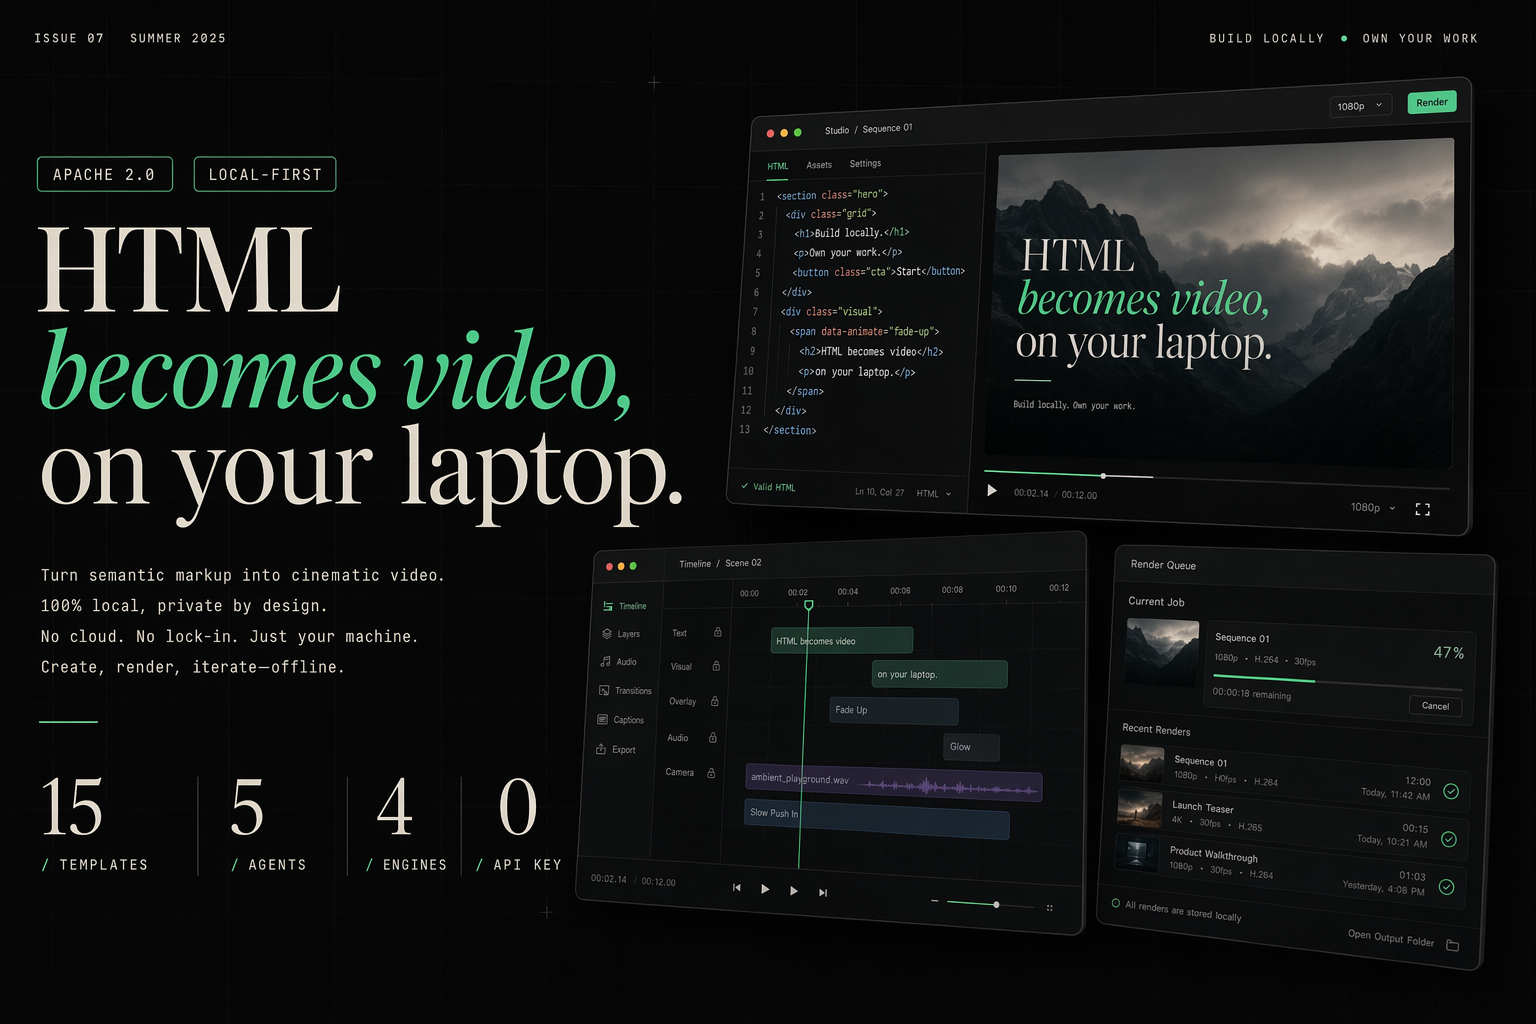
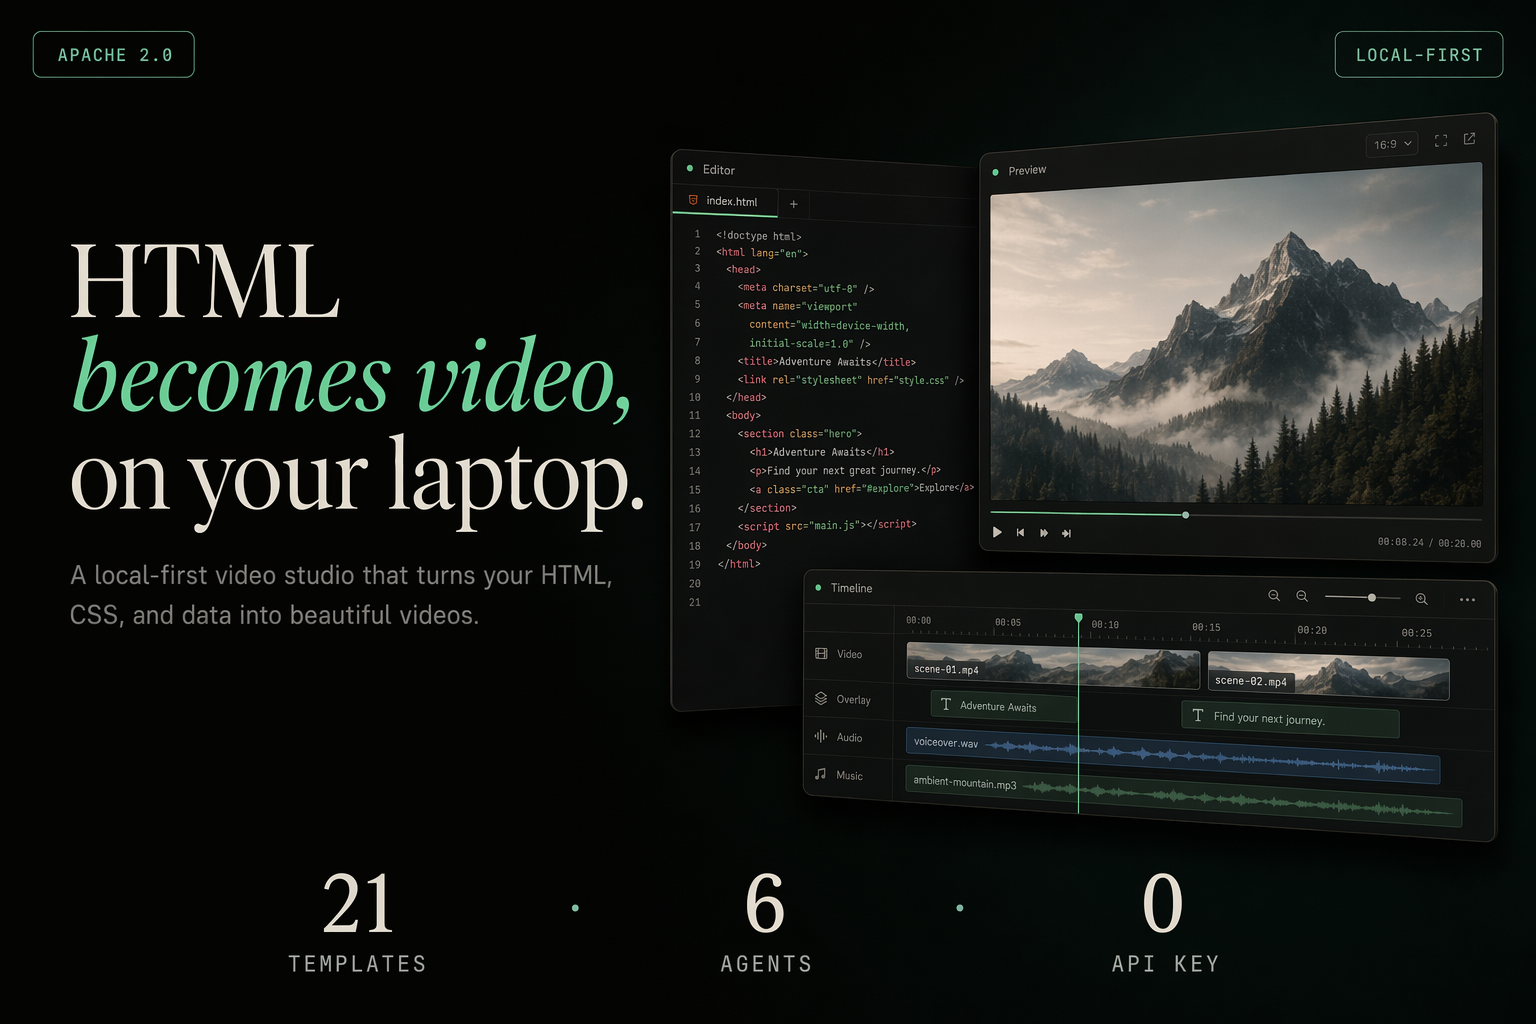
docs: refresh README to current state (real MP4 render, 6 agents, 21 templates) (#1)
The README had drifted from the codebase. Bring it back in sync and expand
the explanatory sections (EN + zh-CN kept in lockstep):

- Hyperframes engine now renders real MP4 (Playwright/Chromium + ffmpeg),
  not a stub — update status, "Why this exists" table, and roadmap.
- Agents 5 → 6: add Open Design (Vela) ACP backend (the recommended default).
- Templates 15 → 21 (manifest-backed templates the registry actually loads).
- New "How it works" section: end-to-end pipeline diagram.
- Expanded link→video, multi-engine vision, and a new Template gallery section
  (manifest + license-clean curation).
- Regenerated hero image with the corrected 21 / 6 stat row.

diff --git a/README.md b/README.md
@@ -4,12 +4,12 @@
   <img src="docs/assets/hero.png" alt="html-video — HTML becomes video, on your laptop" width="100%" />
 </p>
 
-> **HTML becomes video — on your laptop.** Bring your local coding agent (Claude Code · Cursor · Codex · Hermes · or the Anthropic API). Describe a video, or **paste an article link / GitHub repo**, and the agent turns it into a multi-frame, fully animated video — one agent loop, pluggable rendering engines, a curated template gallery, optional AI soundtrack. Apache-2.0, no per-render fees, no vendor lock-in.
+> **HTML becomes video — on your laptop.** Bring your local coding agent (Open Design · Claude Code · Cursor · Codex · Hermes · or the Anthropic API). Describe a video, or **paste an article link / GitHub repo**, and the agent turns it into a multi-frame, fully animated video — then renders it to a real MP4 right on your machine. One agent loop, pluggable rendering engines, a curated template gallery, optional AI soundtrack. Apache-2.0, no per-render fees, no vendor lock-in.
 
 <p align="center">
   <a href="LICENSE"><img alt="License" src="https://img.shields.io/badge/license-Apache%202.0-blue.svg?style=flat-square" /></a>
-  <a href="#supported-agents"><img alt="Agents" src="https://img.shields.io/badge/agents-5%20backends-111?style=flat-square" /></a>
-  <a href="#template-gallery"><img alt="Templates" src="https://img.shields.io/badge/templates-15-3ce6ac?style=flat-square" /></a>
+  <a href="#supported-agents"><img alt="Agents" src="https://img.shields.io/badge/agents-6%20backends-111?style=flat-square" /></a>
+  <a href="#showcase"><img alt="Templates" src="https://img.shields.io/badge/templates-21-3ce6ac?style=flat-square" /></a>
   <a href="#turn-a-link-into-a-video"><img alt="Sources" src="https://img.shields.io/badge/from-article%20%C2%B7%20repo%20%C2%B7%20prompt-9b59b6?style=flat-square" /></a>
   <a href="#soundtrack"><img alt="Soundtrack" src="https://img.shields.io/badge/soundtrack-AI%20music%20%2B%20narration-e67e22?style=flat-square" /></a>
   <a href="#quick-start"><img alt="Quickstart" src="https://img.shields.io/badge/quickstart-3%20commands-22a34a?style=flat-square" /></a>
@@ -57,7 +57,7 @@ Every template below is a real, animated single-file HTML video — these are li
 </tr>
 </table>
 
-…and 9 more, including multi-scene product promos, kinetic type, Swiss-grid data cards, decision-tree explainers, and warm-grain editorial. Browse them live in the studio gallery.
+…and 15 more, including multi-scene product promos, kinetic type, Swiss-grid and Vignelli data cards, decision-tree explainers, Takram-organic motion, and warm-grain editorial. Browse all 21 live in the studio gallery.
 
 ---
 
@@ -67,16 +67,18 @@ HTML→Video is a real category — but every engine is opinionated, and each wa
 
 | Engine | Paradigm | Tradeoff | In html-video |
 |---|---|---|---|
-| [Hyperframes](https://github.com/heygen-com/hyperframes) | HTML + CSS + GSAP, agent-skill driven | Single rendering paradigm | ✅ **Shipped** — the default engine; all templates render through it |
+| [Hyperframes](https://github.com/heygen-com/hyperframes) | HTML + CSS + GSAP, agent-skill driven | Single rendering paradigm | ✅ **Shipped** — the default engine; renders real MP4 via headless Chromium + ffmpeg |
 | [Remotion](https://www.remotion.dev/) | React components | Source-available, paid above 4 devs | 🗺️ Planned |
 | [Motion Canvas](https://github.com/motion-canvas/motion-canvas) · [Revideo](https://github.com/redotvideo/revideo) | TypeScript generators on canvas | Best for explainers, code-first | 🗺️ Planned |
 | [Manim](https://github.com/3b1b/manim) & friends | Math / 3D first | Niche | 🗺️ Researching |
 
 Picking the right engine per use case, learning each model, and stitching them into one workflow costs real engineering time. Most teams pick one and live with its limits.
 
-**html-video is the meta-layer that sits above all of them** — you talk to your agent, it picks the engine and template and renders the video. No new DSL to learn.
+**html-video is the meta-layer that sits above all of them.** You talk to your agent; it picks the engine, picks the template, fills in your content, and renders the video. The engine is an implementation detail behind a single adapter interface — one `render(input, ctx)` contract that any backend can satisfy. Add a new engine and every template, every agent, and the whole studio workflow get it for free. No new DSL to learn, no rewrite when you switch engines.
 
-> **Status:** the pluggable-engine architecture is in place, but today **Hyperframes is the only wired-up backend**. Remotion, Motion Canvas / Revideo, and Manim are on the roadmap — the adapter interface is designed for them, the adapters aren't built yet. The "In html-video" column above is the single source of truth for what's actually runnable.
+The same idea powers [Open Design](https://github.com/nexu-io/open-design) in the *design* space — an agent meta-layer over many tools. html-video is the *motion* counterpart from the same team.
+
+> **Status:** the pluggable-engine architecture is in place, and the **Hyperframes engine is fully wired up and renders real MP4** — headless Chromium records the animated HTML frame-by-frame and ffmpeg encodes it (libx264). Remotion, Motion Canvas / Revideo, and Manim are on the roadmap: the adapter interface is designed for them, but their adapters aren't built yet. The "In html-video" column above is the single source of truth for what's actually runnable today.
 
 ---
 
@@ -84,9 +86,10 @@ Picking the right engine per use case, learning each model, and stitching them i
 
 | | |
 |---|---|
-| **Coding agents (5)** | Claude Code · Cursor Agent · Codex CLI · Hermes · Anthropic Messages API — auto-detected on your `PATH`, switchable from the top bar. |
+| **Coding agents (6)** | Open Design (Vela) · Claude Code · Cursor Agent · Codex CLI · Hermes · Anthropic Messages API — auto-detected on your `PATH`, switchable from the top bar. |
+| **Real MP4 render** | Headless Chromium records the animated HTML and ffmpeg encodes it (libx264) — locally, no cloud render, no per-clip fee. |
 | **Article / repo → video** | Paste a URL or GitHub repo; the studio fetches it server-side (handles WeChat 公众号 articles) and builds the video from the real content. |
-| **15 templates** | Curated, license-clean patterns: data viz, product promos, social shorts, explainers, kinetic type, transitions — previewed live in the gallery. |
+| **21 templates** | Curated, license-clean patterns: data viz, product promos, social shorts, explainers, kinetic type, transitions — previewed live in the gallery. |
 | **Multi-frame storyboards** | A content-graph drives multi-scene videos; edit per-frame text inline, reorder, re-render. |
 | **AI soundtrack** | Optional background music + narration via MiniMax, mixed into the MP4 at export. |
 | **Studio + CLI** | A local browser studio *and* a scriptable `html-video` CLI. |
@@ -94,9 +97,44 @@ Picking the right engine per use case, learning each model, and stitching them i
 
 ---
 
+## How it works
+
+One sentence (or one link) goes in; a real MP4 comes out. The pipeline is the same whether you start from a prompt, an article, or a repo:
+
+```
+  prompt / link / repo
+        │
+        ▼
+  ① source fetch        studio pulls the URL or repo server-side, flattens it to Markdown
+        │
+        ▼
+  ② agent loop          your agent reads the material + the picked template's style and emits
+        │               a content-graph (the storyboard) + one HTML block per frame
+        ▼
+  ③ content-graph       multi-frame IR — nodes (entity / data / text) + edges (sequence /
+        │               dependency / contrast); topo-sorted into frame order & timing
+        ▼
+  ④ per-frame HTML      each node becomes a self-contained animated HTML frame on disk
+        │
+        ▼
+  ⑤ Hyperframes render  headless Chromium loads each frame, records it (auto-extending to
+        │               cover the frame's own animation), → webm per frame
+        ▼
+  ⑥ ffmpeg              each webm → mp4 (libx264), then concat into one video;
+        │               optional MiniMax music + narration mixed in
+        ▼
+      your.mp4
+```
+
+Steps ②–④ are where the "meta-layer" lives: the agent decides the storyboard and the engine decides how to draw it, and neither leaks into the other. Step ⑤ is engine-specific — swapping in Remotion or Motion Canvas later replaces only that box, leaving the storyboard and the agent loop untouched. Everything runs on your machine; the only network calls are the optional source fetch and the optional soundtrack.
+
+Single-frame videos take a fast path that skips the content-graph — one template, one HTML, straight to render.
+
+---
+
 ## Turn a link into a video
 
-This is what most people reach for: hand your agent a link, get a video back. The agents themselves have no network access, so the studio fetches the source **server-side** and feeds the real content into the generation prompt — no copy-pasting article bodies.
+This is what most people reach for: hand your agent a link, get a video back. The agents run as local CLIs with no network access of their own, so the studio fetches the source **server-side** and feeds the real content into the generation prompt — no copy-pasting article bodies, and pages behind a login-free server render (like WeChat 公众号) just work.
 
 ```
 You:   做一个解读视频  https://mp.weixin.qq.com/s/…
@@ -108,7 +146,7 @@ Agent: 好，我读完了《用嘴剪视频的时代来了？…》这篇文章 
 - **GitHub repo** → description, top-level structure, and README pulled via the public API — great for "explain this open-source project" videos.
 - **Just a prompt** → describe the topic and the agent writes the content from scratch.
 
-Whatever the source, it becomes the material the video is actually built from.
+Whatever the source, it becomes the material the video is actually built from — not decoration around a canned template. The agent reads the fetched content, decides how many scenes it needs, and writes a **content-graph storyboard**: the key points become frames, the relationships between them (this follows that, this contrasts with that) become edges, and the picked template's visual style is applied per frame. So a 1,500-word article turns into a paced multi-scene explainer whose every line traces back to something in the source, and a repo turns into a structured walkthrough of what the project actually is.
 
 ---
 
@@ -133,17 +171,18 @@ node packages/cli/dist/bin.js search-templates --intent "github stars race" --to
 
 ## Supported agents
 
-Auto-detected on your `PATH`; switch the active one from the studio's top bar.
+Auto-detected on your `PATH`; switch the active one from the studio's top bar. The studio leads with **Open Design (Vela)** — one login, many models, lower cost — then falls back to the first *available* agent so a fresh project always has a working backend.
 
 | Agent | Detection | Invocation |
 |---|---|---|
+| **Open Design (Vela)** | `vela` / bundled in the Open Design app | ACP over stdio — one login in Open Design, pick any model |
 | **Claude Code** | `claude` | `claude --print`, prompt via stdin |
 | **Cursor Agent** | `cursor-agent` | `cursor-agent --print` |
 | **Codex CLI** | `codex` | `codex exec`, prompt via stdin |
 | **Hermes** | `hermes` | Hermes ACP CLI |
-| **Anthropic API** | BYOK | Direct Messages API — the default when no CLI is pinned |
+| **Anthropic API** | BYOK | Direct Messages API — works with no CLI installed |
 
-No CLI installed? Set an Anthropic key and the studio talks to the Messages API directly.
+Nothing installed? Set an Anthropic key and the studio talks to the Messages API directly.
 
 ---
 
@@ -158,6 +197,19 @@ Both are mixed into the exported MP4 (music ducked under the voice, optional fad
 
 ---
 
+## Template gallery
+
+The 21 templates aren't a random grab-bag — each one is a self-contained, agent-readable unit described by a `template.html-video.yaml` manifest the studio scans at startup. A manifest carries everything the agent needs to pick and drive the template without opening the HTML:
+
+- **What it's for** — `category`, `tags`, and a `best_for` list (e.g. *"Corporate slide"*, *"Minimal report card"*) that `search-templates` matches your intent against.
+- **What it outputs** — supported resolutions, aspect ratios, fps, duration bounds, whether it has an alpha channel or audio.
+- **What goes in** — an `inputs` JSON schema, so the agent knows exactly which text/data slots to fill.
+- **License provenance** — an SPDX id plus explicit `attribution_required` / `redistribution_allowed` / `commercial_use` flags, and an `assets_attribution` block pointing at the upstream source URL.
+
+That last part is deliberate. Every template is **license-clean by construction**: forks carry their original license, the repo-root [`NOTICE.md`](templates/NOTICE.md) records each source and SPDX, and nothing without a clear permissive license ships. So you can put any of them in commercial work without an audit. Templates span data viz (NYT-style charts, Swiss/Vignelli grids), titles & VFX (glitch, kinetic type, typewriter cursor), heroes & cinematics (liquid gradients, light-leak, warm grain), product promos (15s / 30s multi-scene), and explainer scaffolds (decision trees) — and the format is open, so community templates drop in the same way.
+
+---
+
 ## Architecture
 
 ```
@@ -166,11 +218,11 @@ packages/
 │                          MiniMax provider + ffmpeg audio mux
 ├── content-graph/         Multi-frame storyboard IR (nodes + edges, topo-sort)
 ├── runtime/               Agent runtime — detect / spawn / stream
-│                          (Claude · Cursor · Codex · Hermes · Anthropic API)
-├── adapter-hyperframes/   First reference engine adapter (HTML + CSS + GSAP)
+│                          (Open Design/Vela · Claude · Cursor · Codex · Hermes · Anthropic API)
+├── adapter-hyperframes/   Hyperframes engine adapter — real render via Chromium + ffmpeg
 ├── cli/                   `html-video` command + the studio HTTP server + source fetching
 └── project-studio/        Browser studio UI (chat, template gallery, frames, soundtrack, export)
-templates/                 15 curated video templates
+templates/                 21 curated, license-clean video templates
 research/                  RFCs (engine adapter / template metadata / agent skill / content-graph)
 ```
 
@@ -184,7 +236,8 @@ research/                  RFCs (engine adapter / template metadata / agent skil
 - [x] Studio: live template gallery, agent switcher, per-frame text editing
 - [x] Source material: article / GitHub-repo → video
 - [x] AI soundtrack (MiniMax music + narration), mixed at export
-- [ ] Real Hyperframes upstream render (replace the adapter stub)
+- [x] Real MP4 render — Hyperframes engine via headless Chromium + ffmpeg
+- [x] Agent model selection — Open Design (Vela) backend, live model catalog
 - [ ] Adapters for Remotion / Motion Canvas / Revideo
 - [ ] Agent skill packages + a template marketplace
 
@@ -196,7 +249,7 @@ research/                  RFCs (engine adapter / template metadata / agent skil
 |---|---|
 | [Open Design](https://github.com/nexu-io/open-design) | Sister project — the design-agent meta-layer; same team, shared philosophy |
 | [HTML Anything](https://github.com/nexu-io/html-anything) | Sister project — HTML for *static* deliverables; html-video is the *motion* side |
-| [Hyperframes](https://github.com/heygen-com/hyperframes) | First engine adapter; the HTML+GSAP rendering paradigm |
+| [Hyperframes](https://github.com/heygen-com/hyperframes) | The shipped engine adapter; the HTML+CSS+GSAP rendering paradigm and the source of several Apache-2.0 templates |
 
 ## License
 